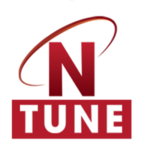
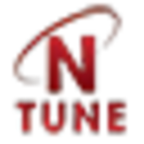
small updates

diff --git a/css/style.css b/css/style.css
@@ -45,6 +45,11 @@ h6 {
   padding: 0;
 }
 
+logo {
+  margin: 0;
+  padding: 0;
+}
+
 /* Back to top button */
 
 .back-to-top {
@@ -73,7 +78,8 @@ h6 {
 }
 
 .back-to-top:hover {
-  background: #0c2e8a;
+  background: #AB1522;
+  ;
   color: #fff;
 }
 
@@ -129,7 +135,7 @@ h6 {
 --------------------------------------------------------------*/
 
 #header {
-  padding: 20px 0;
+  padding:5px 0;
   height: 84px;
   transition: all 0.5s;
   z-index: 997;
@@ -288,7 +294,7 @@ h6 {
 .nav-menu,
 .nav-menu * {
   margin: 0;
-  padding: 0;
+  padding: 10px;
   list-style: none;
 }
 
@@ -1136,28 +1142,28 @@ body.mobile-nav-active #mobile-nav-toggle {
 .contact-form {
   display: flex;
   flex-direction: column;
-  align-items: center; 
+  align-items: center;
   color: #AB1522;
-
-  
 }
 
-.form-style{
-    font: 95% Arial, Helvetica, sans-serif;
-    max-width: 400px;
-    margin: 10px auto;
-    padding: 16px;
-    background: #F7F7F7;
+.form-style {
+  font: 95% Arial, Helvetica, sans-serif;
+  max-width: 400px;
+  margin: 10px auto;
+  padding: 16px;
+  background: #F7F7F7;
 }
-.form-style h1{
-    background: #AB1522;
-    padding: 20px 0;
-    font-size: 140%;
-    font-weight: 300;
-    text-align: center;
-    color: #fff;
-    margin: -16px -16px 16px -16px;
+
+.form-style h1 {
+  background: #AB1522;
+  padding: 20px 0;
+  font-size: 140%;
+  font-weight: 300;
+  text-align: center;
+  color: #fff;
+  margin: -16px -16px 16px -16px;
 }
+
 .form-style input[type="text"],
 .form-style input[type="date"],
 .form-style input[type="datetime"],
@@ -1167,24 +1173,24 @@ body.mobile-nav-active #mobile-nav-toggle {
 .form-style input[type="time"],
 .form-style input[type="url"],
 .form-style textarea,
-.form-style select 
-{
-    -webkit-transition: all 0.30s ease-in-out;
-    -moz-transition: all 0.30s ease-in-out;
-    -ms-transition: all 0.30s ease-in-out;
-    -o-transition: all 0.30s ease-in-out;
-    outline: none;
-    box-sizing: border-box;
-    -webkit-box-sizing: border-box;
-    -moz-box-sizing: border-box;
-    width: 100%;
-    background: #fff;
-    margin-bottom: 4%;
-    border: 1px solid #ccc;
-    padding: 3%;
-    color: #555;
-    font: 95% Arial, Helvetica, sans-serif;
+.form-style select {
+  -webkit-transition: all 0.30s ease-in-out;
+  -moz-transition: all 0.30s ease-in-out;
+  -ms-transition: all 0.30s ease-in-out;
+  -o-transition: all 0.30s ease-in-out;
+  outline: none;
+  box-sizing: border-box;
+  -webkit-box-sizing: border-box;
+  -moz-box-sizing: border-box;
+  width: 100%;
+  background: #fff;
+  margin-bottom: 4%;
+  border: 1px solid #ccc;
+  padding: 3%;
+  color: #555;
+  font: 95% Arial, Helvetica, sans-serif;
 }
+
 .form-style input[type="text"]:focus,
 .form-style input[type="date"]:focus,
 .form-style input[type="datetime"]:focus,
@@ -1194,28 +1200,28 @@ body.mobile-nav-active #mobile-nav-toggle {
 .form-style input[type="time"]:focus,
 .form-style input[type="url"]:focus,
 .form-style textarea:focus,
-.form-style select:focus
-{
-    box-shadow: 0 0 5px #AB1522;
-    padding: 3%;
-    border: 1px solid #AB1522;
+.form-style select:focus {
+  box-shadow: 0 0 5px #AB1522;
+  padding: 3%;
+  border: 1px solid #AB1522;
 }
 
 .form-style input[type="submit"],
-.form-style input[type="button"]{
-    box-sizing: border-box;
-    -webkit-box-sizing: border-box;
-    -moz-box-sizing: border-box;
-    width: 100%;
-    padding: 3%;
-    background: #AB1522;
-    border-bottom: 2px solid #30C29E;
-    border-top-style: none;
-    border-right-style: none;
-    border-left-style: none;    
-    color: #fff;
+.form-style input[type="button"] {
+  box-sizing: border-box;
+  -webkit-box-sizing: border-box;
+  -moz-box-sizing: border-box;
+  width: 100%;
+  padding: 3%;
+  background: #AB1522;
+  border-bottom: 2px solid #30C29E;
+  border-top-style: none;
+  border-right-style: none;
+  border-left-style: none;
+  color: #fff;
 }
+
 .form-style input[type="submit"]:hover,
-.form-style input[type="button"]:hover{
-    background: #2EBC99;
+.form-style input[type="button"]:hover {
+  background: #2EBC99;
 }

diff --git a/index.html b/index.html
@@ -78,9 +78,9 @@
     <div class="container">
 
       <div id="logo" class="pull-left">
-        <h1><a href="#body" class="scrollto">N<span>Tune</span></a></h1>
+        <!-- <h1><a href="#body" class="scrollto">N<span>Tune</span></a></h1> -->
         <!-- Uncomment below if you prefer to use an image logo -->
-        <!-- <a href="#body"><img src="img/logo.png" alt="" title="" /></a>-->
+        <a href="#body"><img class="logo" src="./img/Ntune-logo.png" alt="" title="NTune logo" /></a>
       </div>
 
       <nav id="nav-menu-container">
@@ -108,6 +108,7 @@
       </div>
     </div>
 
+
     <div id="intro-carousel" class="owl-carousel" >
       <div class="item" style="background-image: url('img/intro-carousel/1.jpg');"></div>
       <div class="item" style="background-image: url('img/intro-carousel/2.jpg');"></div>
@@ -127,7 +128,7 @@
       <div class="container">
         <div class="row">
           <div class="col-lg-6 about-img">
-            <img src="img/about-img.jpg" alt="">
+            <!-- <img src="img/about-img.jpg" alt=""> -->
           </div>
 
           <div class="col-lg-6 content">
@@ -249,7 +250,6 @@
       <div class="container">
         <div class="section-header">
           <h2>Our App</h2>
-          <p>Sed tamen tempor magna labore dolore dolor sint tempor duis magna elit veniam aliqua esse amet veniam enim export quid quid veniam aliqua eram noster malis nulla duis fugiat culpa esse aute nulla ipsum velit export irure minim illum fore</p>
         </div>
       </div>
 
@@ -363,7 +363,7 @@
     <!--==========================
       Testimonials Section
     ============================-->
-    <section id="testimonials" class="wow fadeInUp">
+    <!-- <section id="testimonials" class="wow fadeInUp">
       <div class="container">
         <div class="section-header">
           <h2>Testimonials</h2>
@@ -429,7 +429,7 @@
         </div>
 
       </div>
-    </section><!-- #testimonials -->
+    </section>#testimonials -->
 
     <!--==========================
       Call To Action Section
@@ -438,10 +438,10 @@
       <div class="container">
         <div class="row">
           <div class="col-lg-9 text-center text-lg-left">
-            <h3 class="cta-title">Call To Action</h3>
-            <p class="cta-text"> Our goal is provide a easier connection
+            <h3 class="cta-title">Download The App</h3>
+            <!-- <p class="cta-text"> Our goal is provide a easier connection
                 between those seeking events with those promoting them
-                in turn expanding the market exponentially.</p>
+                in turn expanding the market exponentially.</p> -->
           </div>
           <div class="col-lg-3 cta-btn-container text-center">
             <a class="cta-btn align-middle" href="#">Call To Action</a>
